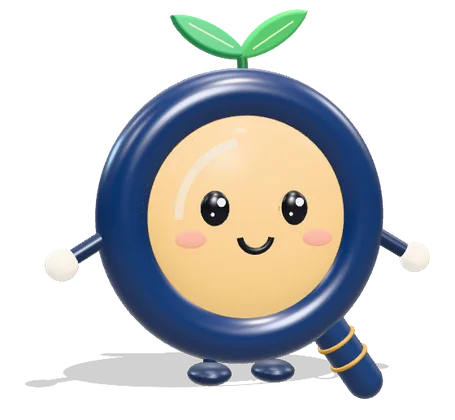
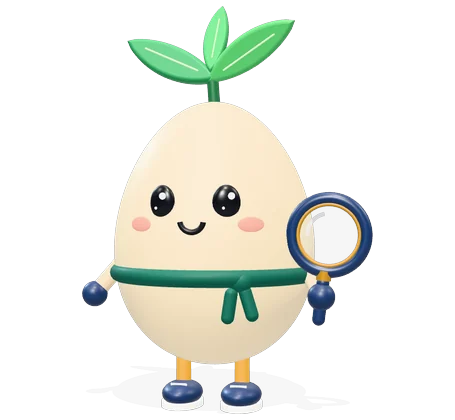
AI bomi: egg character with sprout and magnifier

diff --git a/tools/bomi/egg3d.js b/tools/bomi/egg3d.js
@@ -1,0 +1,150 @@
+/* 계란 봄이 3D — 계란 몸 + 새싹 머리 + 돋보기를 든 손 + 운동화. three.js 기본 도형만으로.
+   buildEgg(THREE) → { group, setExpr(name), setPose(name), tick(t) }
+   표정: idle · happy · think · wow · wink · talk      자세: stand · wave · look(돋보기로 들여다보기) · point · think · hold · bow */
+export function buildEgg(THREE, opt = {}) {
+  const C = Object.assign({ shell: 0xf7e6c6, shellShade: 0xeed8b4, ink: 0x1b1c20, cheek: 0xf6a596, leafA: 0x2e8b53, leafB: 0x4fae62, stem: 0x23693f,
+    navy: 0x16305a, gold: 0xe0a43c, sole: 0xffffff, scarf: 0x0f5a4a }, opt.colors || {});
+  const toy = (color, extra = {}) => new THREE.MeshPhysicalMaterial(Object.assign({ color, roughness: .4, metalness: 0, clearcoat: .5, clearcoatRoughness: .3 }, extra));
+  const g = new THREE.Group(); const body = new THREE.Group(); g.add(body);
+
+  /* 계란 몸 — 위가 조금 좁은 달걀꼴 */
+  const pts = []; const H = 1.32;
+  for (let i = 0; i <= 64; i++) { const t = i / 64 * Math.PI; const y = -Math.cos(t) * H; const r = Math.sin(t) * 1.0 * (1 - 0.13 * y / H); pts.push(new THREE.Vector2(Math.max(r, 0.0001), y)); }
+  const egg = new THREE.Mesh(new THREE.LatheGeometry(pts, 96), toy(C.shell, { roughness: .5, clearcoat: .3, clearcoatRoughness: .45, sheen: .3, sheenColor: new THREE.Color(0xfff1d8) }));
+  egg.position.y = .12; body.add(egg);
+
+  /* 초록 목도리(김보미.com 초록) */
+  const scarf = new THREE.Mesh(new THREE.TorusGeometry(.95, .1, 16, 80), toy(C.scarf, { roughness: .7, clearcoat: .1 }));
+  scarf.rotation.x = Math.PI / 2; scarf.position.y = -.27; scarf.scale.set(1, 1, .9); body.add(scarf);
+  const knot = new THREE.Mesh(new THREE.SphereGeometry(.1, 20, 14), toy(C.scarf, { roughness: .7, clearcoat: .1 })); knot.scale.set(1.2,1,.8); knot.position.set(.42, -.3, .88); body.add(knot);
+  const tail = new THREE.Mesh(new THREE.CapsuleGeometry(.06, .22, 4, 10), toy(C.scarf, { roughness: .7, clearcoat: .1 })); tail.position.set(.5, -.5, .86); tail.rotation.z = .3; body.add(tail); const tail2 = tail.clone(); tail2.position.set(.33, -.52, .9); tail2.rotation.z = -.15; body.add(tail2);
+
+  /* 얼굴 */
+  const F = new THREE.Group(); F.position.set(0, .3, 0); body.add(F);
+  const ink = new THREE.MeshStandardMaterial({ color: C.ink, roughness: .25 }); const white = new THREE.MeshBasicMaterial({ color: 0xffffff });
+  const zOn = (x, y) => { // 달걀 겉면 위의 z
+    const yy = (y + F.position.y - .12) / H; const r = Math.sqrt(Math.max(0, 1 - yy * yy)) * (1 - .13 * yy); return Math.sqrt(Math.max(0, r * r - x * x));
+  };
+  function eye(x) {
+    const e = new THREE.Group(); e.position.set(x, .12, zOn(x, .12) - .01);
+    const ball = new THREE.Mesh(new THREE.SphereGeometry(.13, 32, 24), ink); ball.scale.set(1, 1.25, .5); e.add(ball);
+    const hi = new THREE.Mesh(new THREE.SphereGeometry(.034, 16, 12), white); hi.position.set(.038, .06, .06); e.add(hi);
+    const hi2 = new THREE.Mesh(new THREE.SphereGeometry(.015, 12, 8), white); hi2.position.set(-.035, -.05, .06); e.add(hi2);
+    const arc = new THREE.Mesh(new THREE.TorusGeometry(.1, .03, 10, 24, Math.PI), ink); arc.position.set(0, -.03, .03); arc.visible = false; e.add(arc);
+    e.lookAt(e.position.clone().multiplyScalar(2).setY(e.position.y)); e.userData = { ball, hi, hi2, arc }; F.add(e); return e;
+  }
+  const eyeL = eye(-.3), eyeR = eye(.3);
+  function cheek(x) { const m = new THREE.Mesh(new THREE.SphereGeometry(.1, 24, 16), new THREE.MeshStandardMaterial({ color: C.cheek, roughness: .9, transparent: true, opacity: .8 })); m.scale.set(1.3, .7, .2); m.position.set(x, -.08, zOn(x, -.08) + .005); m.lookAt(m.position.clone().multiplyScalar(2).setY(m.position.y)); F.add(m); }
+  cheek(-.52); cheek(.52);
+  const mz = zOn(0, -.08) + .012;
+  const mouthSmile = new THREE.Mesh(new THREE.TorusGeometry(.11, .026, 10, 30, Math.PI * .9), ink); mouthSmile.rotation.z = Math.PI * 1.05; mouthSmile.position.set(0, -.04, mz); F.add(mouthSmile);
+  const mouthOpen = new THREE.Mesh(new THREE.CircleGeometry(.14, 32, Math.PI, Math.PI), new THREE.MeshStandardMaterial({ color: 0x7a2424, roughness: .6, side: THREE.DoubleSide })); mouthOpen.position.set(0, -.03, mz + .015); mouthOpen.visible = false; F.add(mouthOpen);
+  const tongue = new THREE.Mesh(new THREE.SphereGeometry(.055, 16, 12), new THREE.MeshStandardMaterial({ color: 0xf08a7e })); tongue.scale.set(1.3, .55, .3); tongue.position.set(0, -.13, mz + .02); tongue.visible = false; F.add(tongue);
+  const mouthO = new THREE.Mesh(new THREE.TorusGeometry(.05, .022, 10, 24), ink); mouthO.position.set(.02, -.1, mz); mouthO.visible = false; F.add(mouthO);
+  const brow = new THREE.Mesh(new THREE.CapsuleGeometry(.018, .11, 4, 8), ink); brow.rotation.z = Math.PI / 2 + .35; brow.position.set(.31, .38, zOn(.31, .38)); brow.visible = false; F.add(brow);
+
+  /* 새싹 */
+  const sprout = new THREE.Group(); sprout.position.set(0, .12 + H - .03, 0); body.add(sprout);
+  const stem = new THREE.Mesh(new THREE.CapsuleGeometry(.045, .2, 6, 12), toy(C.stem)); stem.position.y = .1; sprout.add(stem);
+  function leaf(color, side) {
+    const s = new THREE.Shape(); s.moveTo(0, 0); s.bezierCurveTo(.2, .14, .5, .14, .7, 0); s.bezierCurveTo(.5, -.11, .2, -.11, 0, 0);
+    const geo = new THREE.ExtrudeGeometry(s, { depth: .04, bevelEnabled: true, bevelThickness: .03, bevelSize: .03, bevelSegments: 4, curveSegments: 24 }); geo.translate(0, 0, -.02);
+    const m = new THREE.Mesh(geo, toy(color, { roughness: .6, clearcoat: .15 })); m.position.y = .2; m.rotation.z = side > 0 ? .5 : Math.PI - .5; m.rotation.x = side * .25;
+    const vein = new THREE.Mesh(new THREE.CapsuleGeometry(.008, .45, 2, 6), new THREE.MeshStandardMaterial({ color: 0xd9f2c9 })); vein.rotation.z = Math.PI / 2; vein.position.set(.34, 0, .055); m.add(vein);
+    sprout.add(m); return m;
+  }
+  const leafL = leaf(C.leafA, -1), leafR = leaf(C.leafB, 1);
+  const leafM = leaf(0x3f9e5a, 1); leafM.scale.setScalar(.72); leafM.position.y = .26; leafM.rotation.set(-.35, 0, 1.4); leafM.position.z = .03;
+  sprout.scale.setScalar(1.35);
+
+  /* 팔 — 계란색 짧은 팔 + 남색 장갑 */
+  const SH = { L: new THREE.Vector3(-.9, -.12, .05), R: new THREE.Vector3(.9, -.12, .05) };
+  function arm(side) {
+    const a = new THREE.Group(); a.position.copy(side < 0 ? SH.L : SH.R);
+    const up = new THREE.Mesh(new THREE.CylinderGeometry(.085, .085, 1, 16), toy(C.shellShade, { roughness: .45 })); a.add(up);
+    const j = new THREE.Mesh(new THREE.SphereGeometry(.085, 16, 12), up.material); a.add(j);
+    const hand = new THREE.Mesh(new THREE.SphereGeometry(.13, 24, 16), toy(C.navy, { roughness: .5 })); a.add(hand);
+    a.userData = { up, hand }; body.add(a); return a;
+  }
+  // 손 위치(body 좌표)로 팔을 겨눈다
+  function aim(a, P) {
+    const v = P.clone().sub(a.position), len = Math.max(v.length(), .05);
+    a.userData.up.position.copy(v.clone().multiplyScalar(.5)); a.userData.up.scale.set(1, len, 1);
+    a.userData.up.quaternion.setFromUnitVectors(new THREE.Vector3(0, 1, 0), v.clone().normalize());
+    a.userData.hand.position.copy(v);
+  }
+  const armL = arm(-1), armR = arm(1);
+
+  /* 돋보기 — 오른손에 든다 */
+  const mag = new THREE.Group();
+  const mring = new THREE.Mesh(new THREE.TorusGeometry(.34, .06, 20, 64), toy(C.navy, { roughness: .3 })); mag.add(mring);
+  const mgold = new THREE.Mesh(new THREE.TorusGeometry(.285, .018, 10, 64), toy(C.gold, { metalness: .5, roughness: .3 })); mgold.position.z = .03; mag.add(mgold);
+  const lens = new THREE.Mesh(new THREE.CircleGeometry(.29, 48), new THREE.MeshPhysicalMaterial({ color: 0xdff1ff, roughness: .05, metalness: 0, transmission: .9, thickness: .05, transparent: true, opacity: .35, clearcoat: 1 })); mag.add(lens);
+  const glint = new THREE.Mesh(new THREE.TorusGeometry(.2, .018, 8, 30, Math.PI * .45), new THREE.MeshBasicMaterial({ color: 0xffffff, transparent: true, opacity: .8 })); glint.position.z = .02; glint.rotation.z = Math.PI * .6; mag.add(glint);
+  const mh = new THREE.Group(); mh.position.set(0, -.34, 0); mag.add(mh);
+  const mcol = new THREE.Mesh(new THREE.CylinderGeometry(.07, .07, .09, 24), toy(C.gold, { metalness: .5, roughness: .3 })); mcol.position.y = -.04; mh.add(mcol);
+  const mgrip = new THREE.Mesh(new THREE.CapsuleGeometry(.06, .34, 6, 16), toy(C.navy, { roughness: .45 })); mgrip.position.y = -.28; mh.add(mgrip);
+  mag.userData = { lens };
+  body.add(mag);
+
+  /* 다리와 운동화 */
+  function shoe(x) {
+    const s = new THREE.Group(); s.position.set(x, -1.28, .08);
+    const leg = new THREE.Mesh(new THREE.CapsuleGeometry(.075, .3, 4, 10), toy(C.gold, { roughness: .5, clearcoat: .2 })); leg.position.y = .22; s.add(leg);
+    const up = new THREE.Mesh(new THREE.SphereGeometry(.2, 24, 16), toy(C.navy, { roughness: .5 })); up.scale.set(1, .62, 1.45); up.position.set(0, 0, .05); s.add(up);
+    const sole = new THREE.Mesh(new THREE.CylinderGeometry(.2, .2, .06, 32), toy(C.sole, { roughness: .6 })); sole.scale.set(1.03, 1, 1.5); sole.position.set(0, -.1, .05); s.add(sole);
+    const lace = new THREE.Mesh(new THREE.BoxGeometry(.16, .02, .05), new THREE.MeshBasicMaterial({ color: 0xffffff })); lace.position.set(0, .1, .2); lace.rotation.x = -.5; s.add(lace);
+    body.add(s); return s;
+  }
+  const shoes = [shoe(-.3), shoe(.3)];
+
+  /* 예산서 (hold 자세) */
+  const doc = new THREE.Group(); doc.visible = false;
+  doc.add(new THREE.Mesh(new THREE.BoxGeometry(.4, .52, .03), toy(0xfaf7ef, { roughness: .8, clearcoat: 0 })));
+  for (let i = 0; i < 4; i++) { const l = new THREE.Mesh(new THREE.BoxGeometry(i === 0 ? .24 : .28, .03, .01), new THREE.MeshBasicMaterial({ color: i === 0 ? 0x16305a : 0xb9b3a4 })); l.position.set(i === 0 ? -.03 : 0, .15 - i * .1, .02); doc.add(l); }
+  const bar = new THREE.Mesh(new THREE.BoxGeometry(.08, .12, .01), new THREE.MeshBasicMaterial({ color: 0x2e8b53 })); bar.position.set(.1, -.17, .02); doc.add(bar);
+  body.add(doc);
+
+  /* 몸통을 살짝 띄워 다리가 보이게 */
+  const U = new THREE.Group(); U.position.y = .2;
+  body.children.slice().forEach(c => { if (!shoes.includes(c)) U.add(c); }); body.add(U);
+
+  function setExpr(n) {
+    [eyeL, eyeR].forEach(e => { e.userData.ball.visible = e.userData.hi.visible = e.userData.hi2.visible = true; e.userData.arc.visible = false; e.scale.set(1, 1, 1); e.userData.ball.position.set(0, 0, 0); });
+    mouthSmile.visible = true; mouthOpen.visible = tongue.visible = mouthO.visible = brow.visible = false;
+    if (n === 'happy') { [eyeL, eyeR].forEach(e => { e.userData.ball.visible = e.userData.hi.visible = e.userData.hi2.visible = false; e.userData.arc.visible = true; }); mouthSmile.visible = false; mouthOpen.visible = tongue.visible = true; }
+    if (n === 'wink') { eyeL.userData.ball.visible = eyeL.userData.hi.visible = eyeL.userData.hi2.visible = false; eyeL.userData.arc.visible = true; }
+    if (n === 'wow') { [eyeL, eyeR].forEach(e => e.scale.set(1.15, 1.25, 1)); mouthSmile.visible = false; mouthO.visible = true; mouthO.scale.set(1.5, 1.7, 1); mouthO.position.x = 0; }
+    if (n === 'think') { [eyeL, eyeR].forEach(e => e.userData.ball.position.set(.03, .045, 0)); mouthSmile.visible = false; mouthO.visible = true; mouthO.scale.set(.8, .8, 1); mouthO.position.x = .1; brow.visible = true; }
+    if (n === 'talk') { mouthSmile.visible = false; mouthOpen.visible = true; }
+    if (n === 'look') { eyeR.scale.set(1.35, 1.45, 1); eyeL.scale.set(.9, .9, 1); }
+    g.userData.expr = n;
+  }
+  // 돋보기 중심·기울기를 정하면 손이 자루 끝을 쥔다
+  function placeMag(p, rotZ, rotY) {
+    mag.position.copy(p); mag.rotation.set(0, rotY || 0, rotZ || 0); mag.updateMatrix();
+    const grip = new THREE.Vector3(0, -.58, 0).applyMatrix4(mag.matrix); aim(armR, grip);
+  }
+  const REST_L = new THREE.Vector3(-1.2, -.5, .2);
+  function setPose(n) {
+    body.rotation.set(0, 0, 0); body.position.z = 0; doc.visible = false;
+    aim(armL, REST_L);
+    placeMag(new THREE.Vector3(1.2, .12, .55), -.12);
+    if (n === 'look') placeMag(new THREE.Vector3(.3, .42, 1.3), .55);
+    if (n === 'point') { aim(armL, new THREE.Vector3(-1.5, .45, .45)); }
+    if (n === 'think') { aim(armL, new THREE.Vector3(-.42, .12, 1.02)); }
+    if (n === 'hold') { doc.visible = true; doc.position.set(-.5, -.45, 1.08); doc.rotation.set(-.1, .15, .12); aim(armL, new THREE.Vector3(-.7, -.55, 1.05)); }
+    if (n === 'bow') { body.rotation.x = .38; body.position.z = .15; }
+    g.userData.pose = n;
+  }
+  function tick(t) {
+    const w = Math.PI * 2 / 2.8;
+    body.position.y = Math.sin(t * w) * .04;
+    sprout.rotation.z = Math.sin(t * w) * .08; leafL.rotation.x = -.25 + Math.sin(t * w * 2) * .12; leafR.rotation.x = .25 - Math.sin(t * w * 2 + .6) * .12;
+    const blink = (t % 2.8) > 2.62; if (g.userData.expr !== 'happy') [eyeL, eyeR].forEach(e => { if (e.userData.ball.visible) e.scale.y = blink ? .12 : (g.userData.expr === 'wow' ? 1.25 : (g.userData.expr === 'look' && e === eyeR ? 1.45 : (g.userData.expr === 'look' ? .9 : 1))); });
+    if (g.userData.pose === 'wave') { const k = Math.sin(t * w * 4) * .35; aim(armL, new THREE.Vector3(-1.3 - Math.sin(k) * .35, .35 + Math.cos(k) * .1, .35)); }
+    if (g.userData.expr === 'talk') mouthOpen.scale.y = .5 + Math.abs(Math.sin(t * w * 5)) * .6;
+  }
+  setExpr('idle'); setPose('stand');
+  return { group: g, setExpr, setPose, tick };
+}
